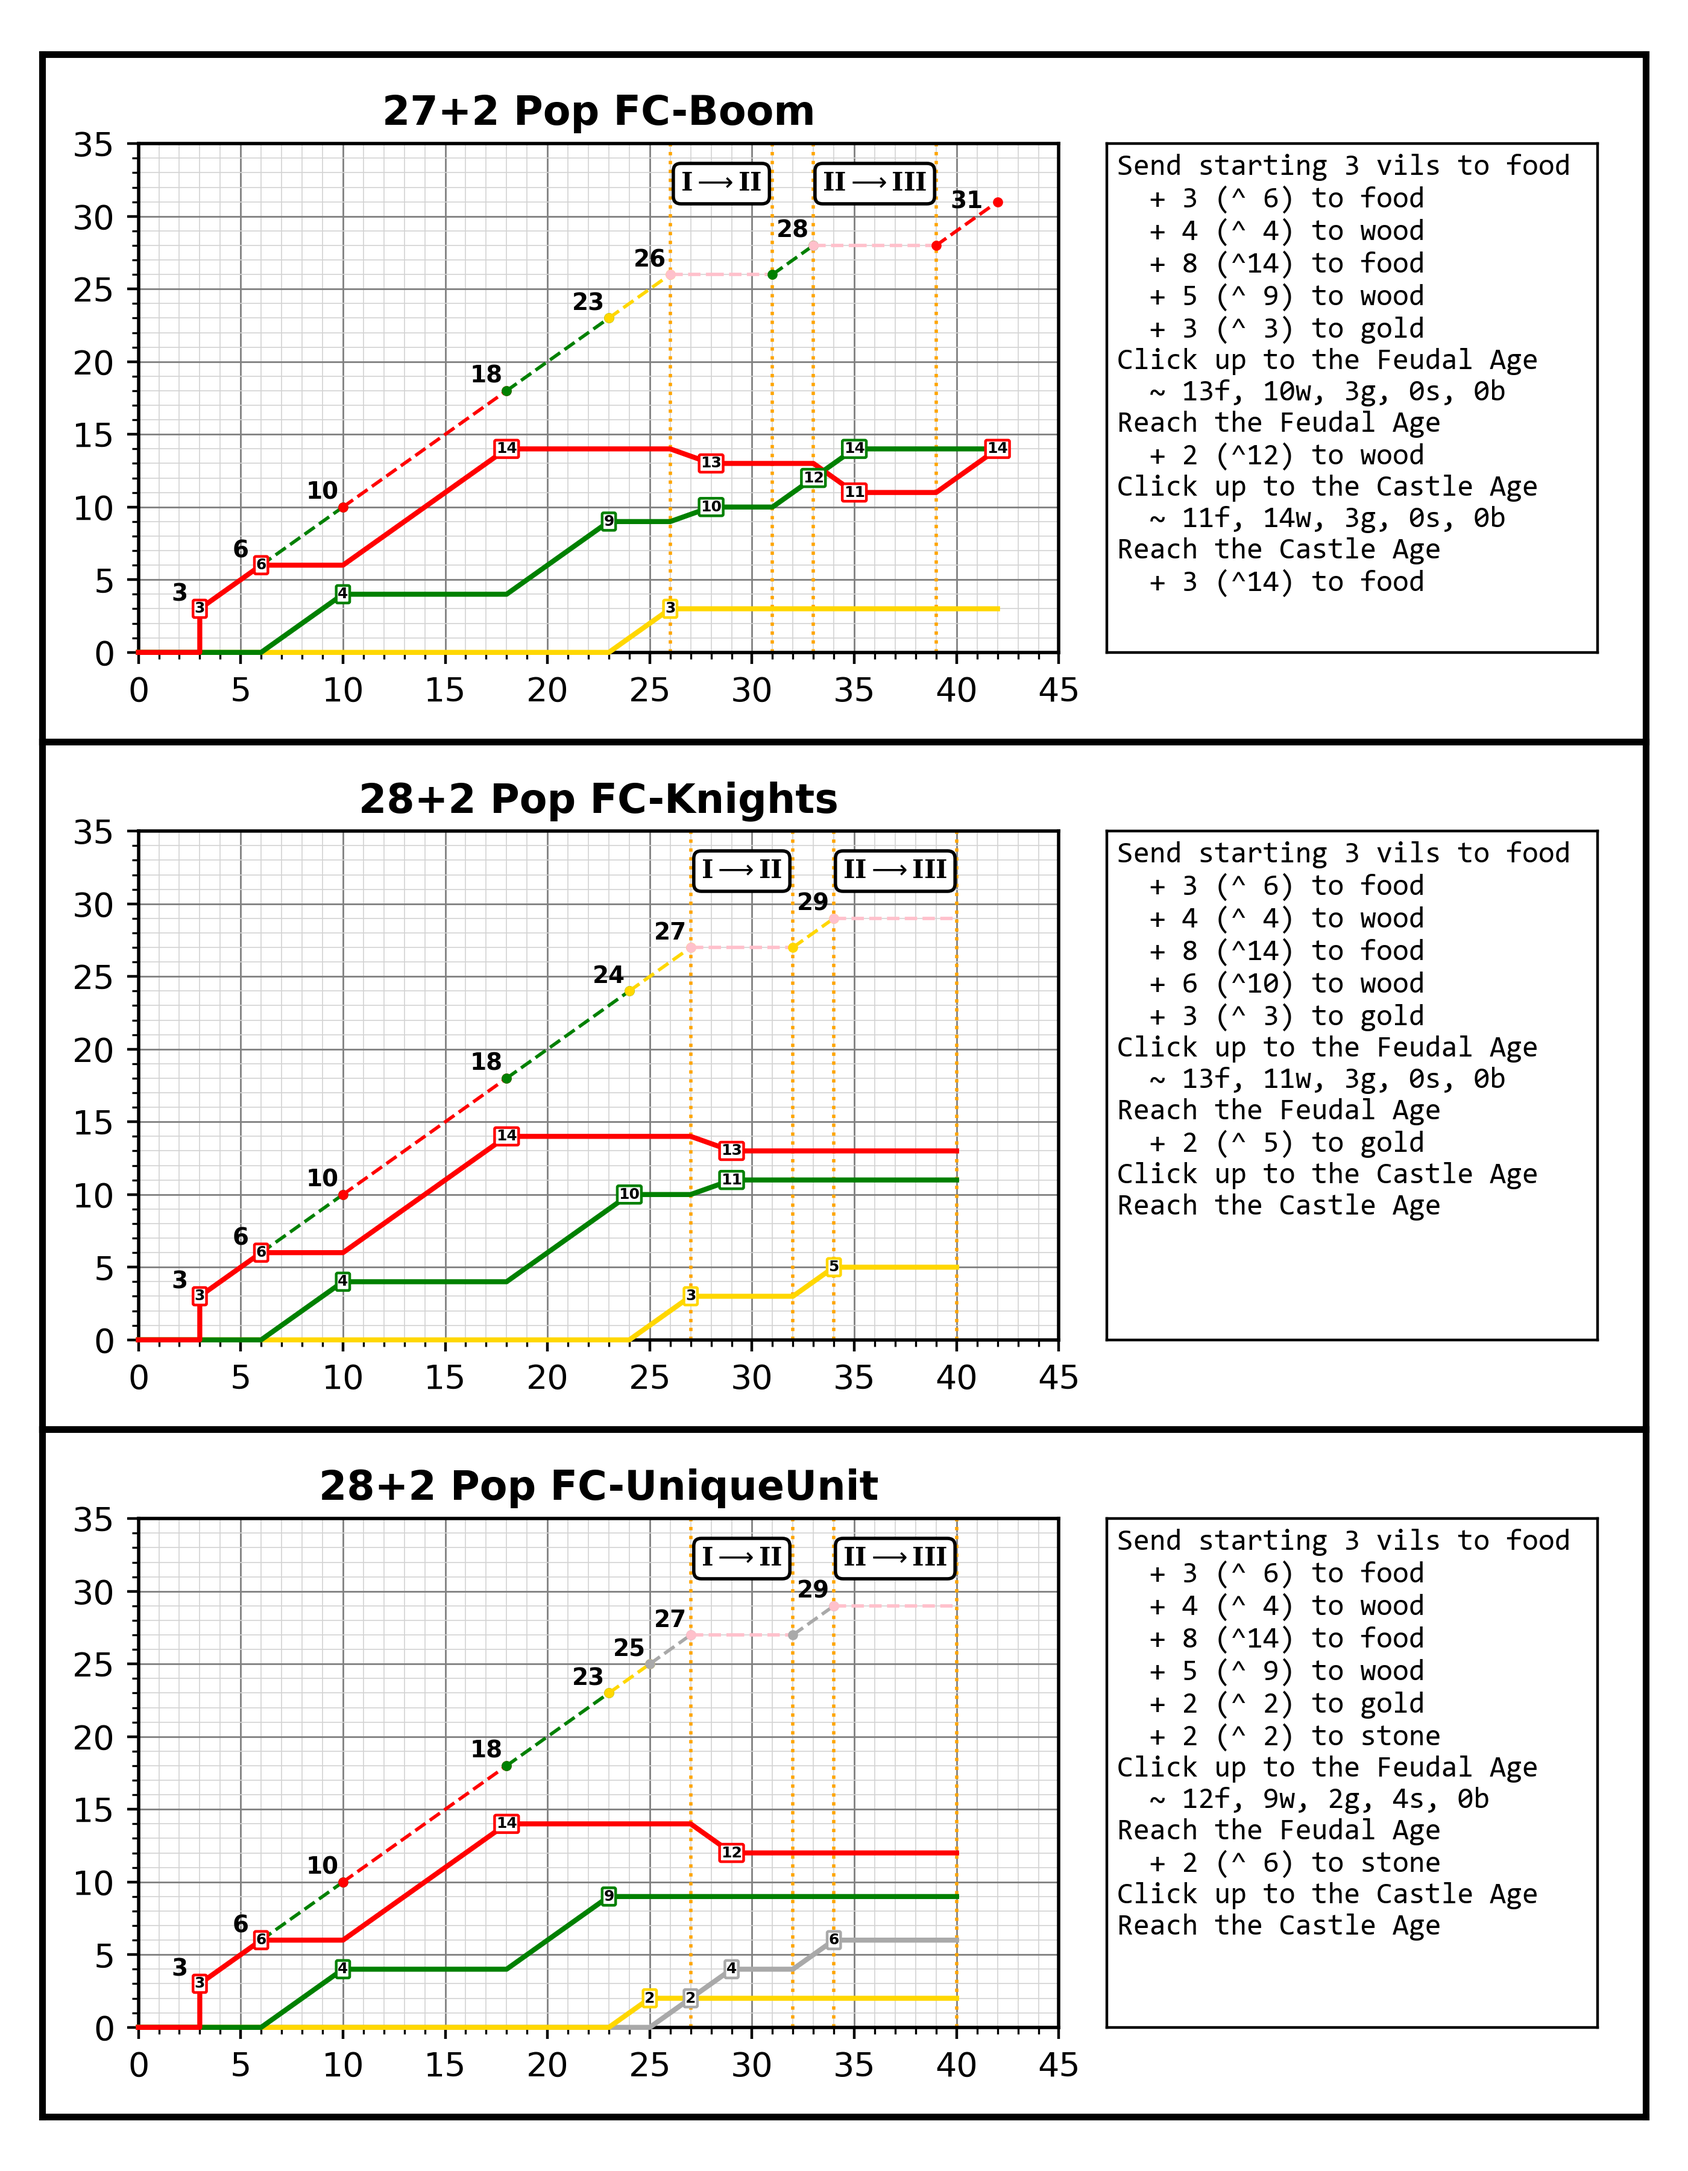
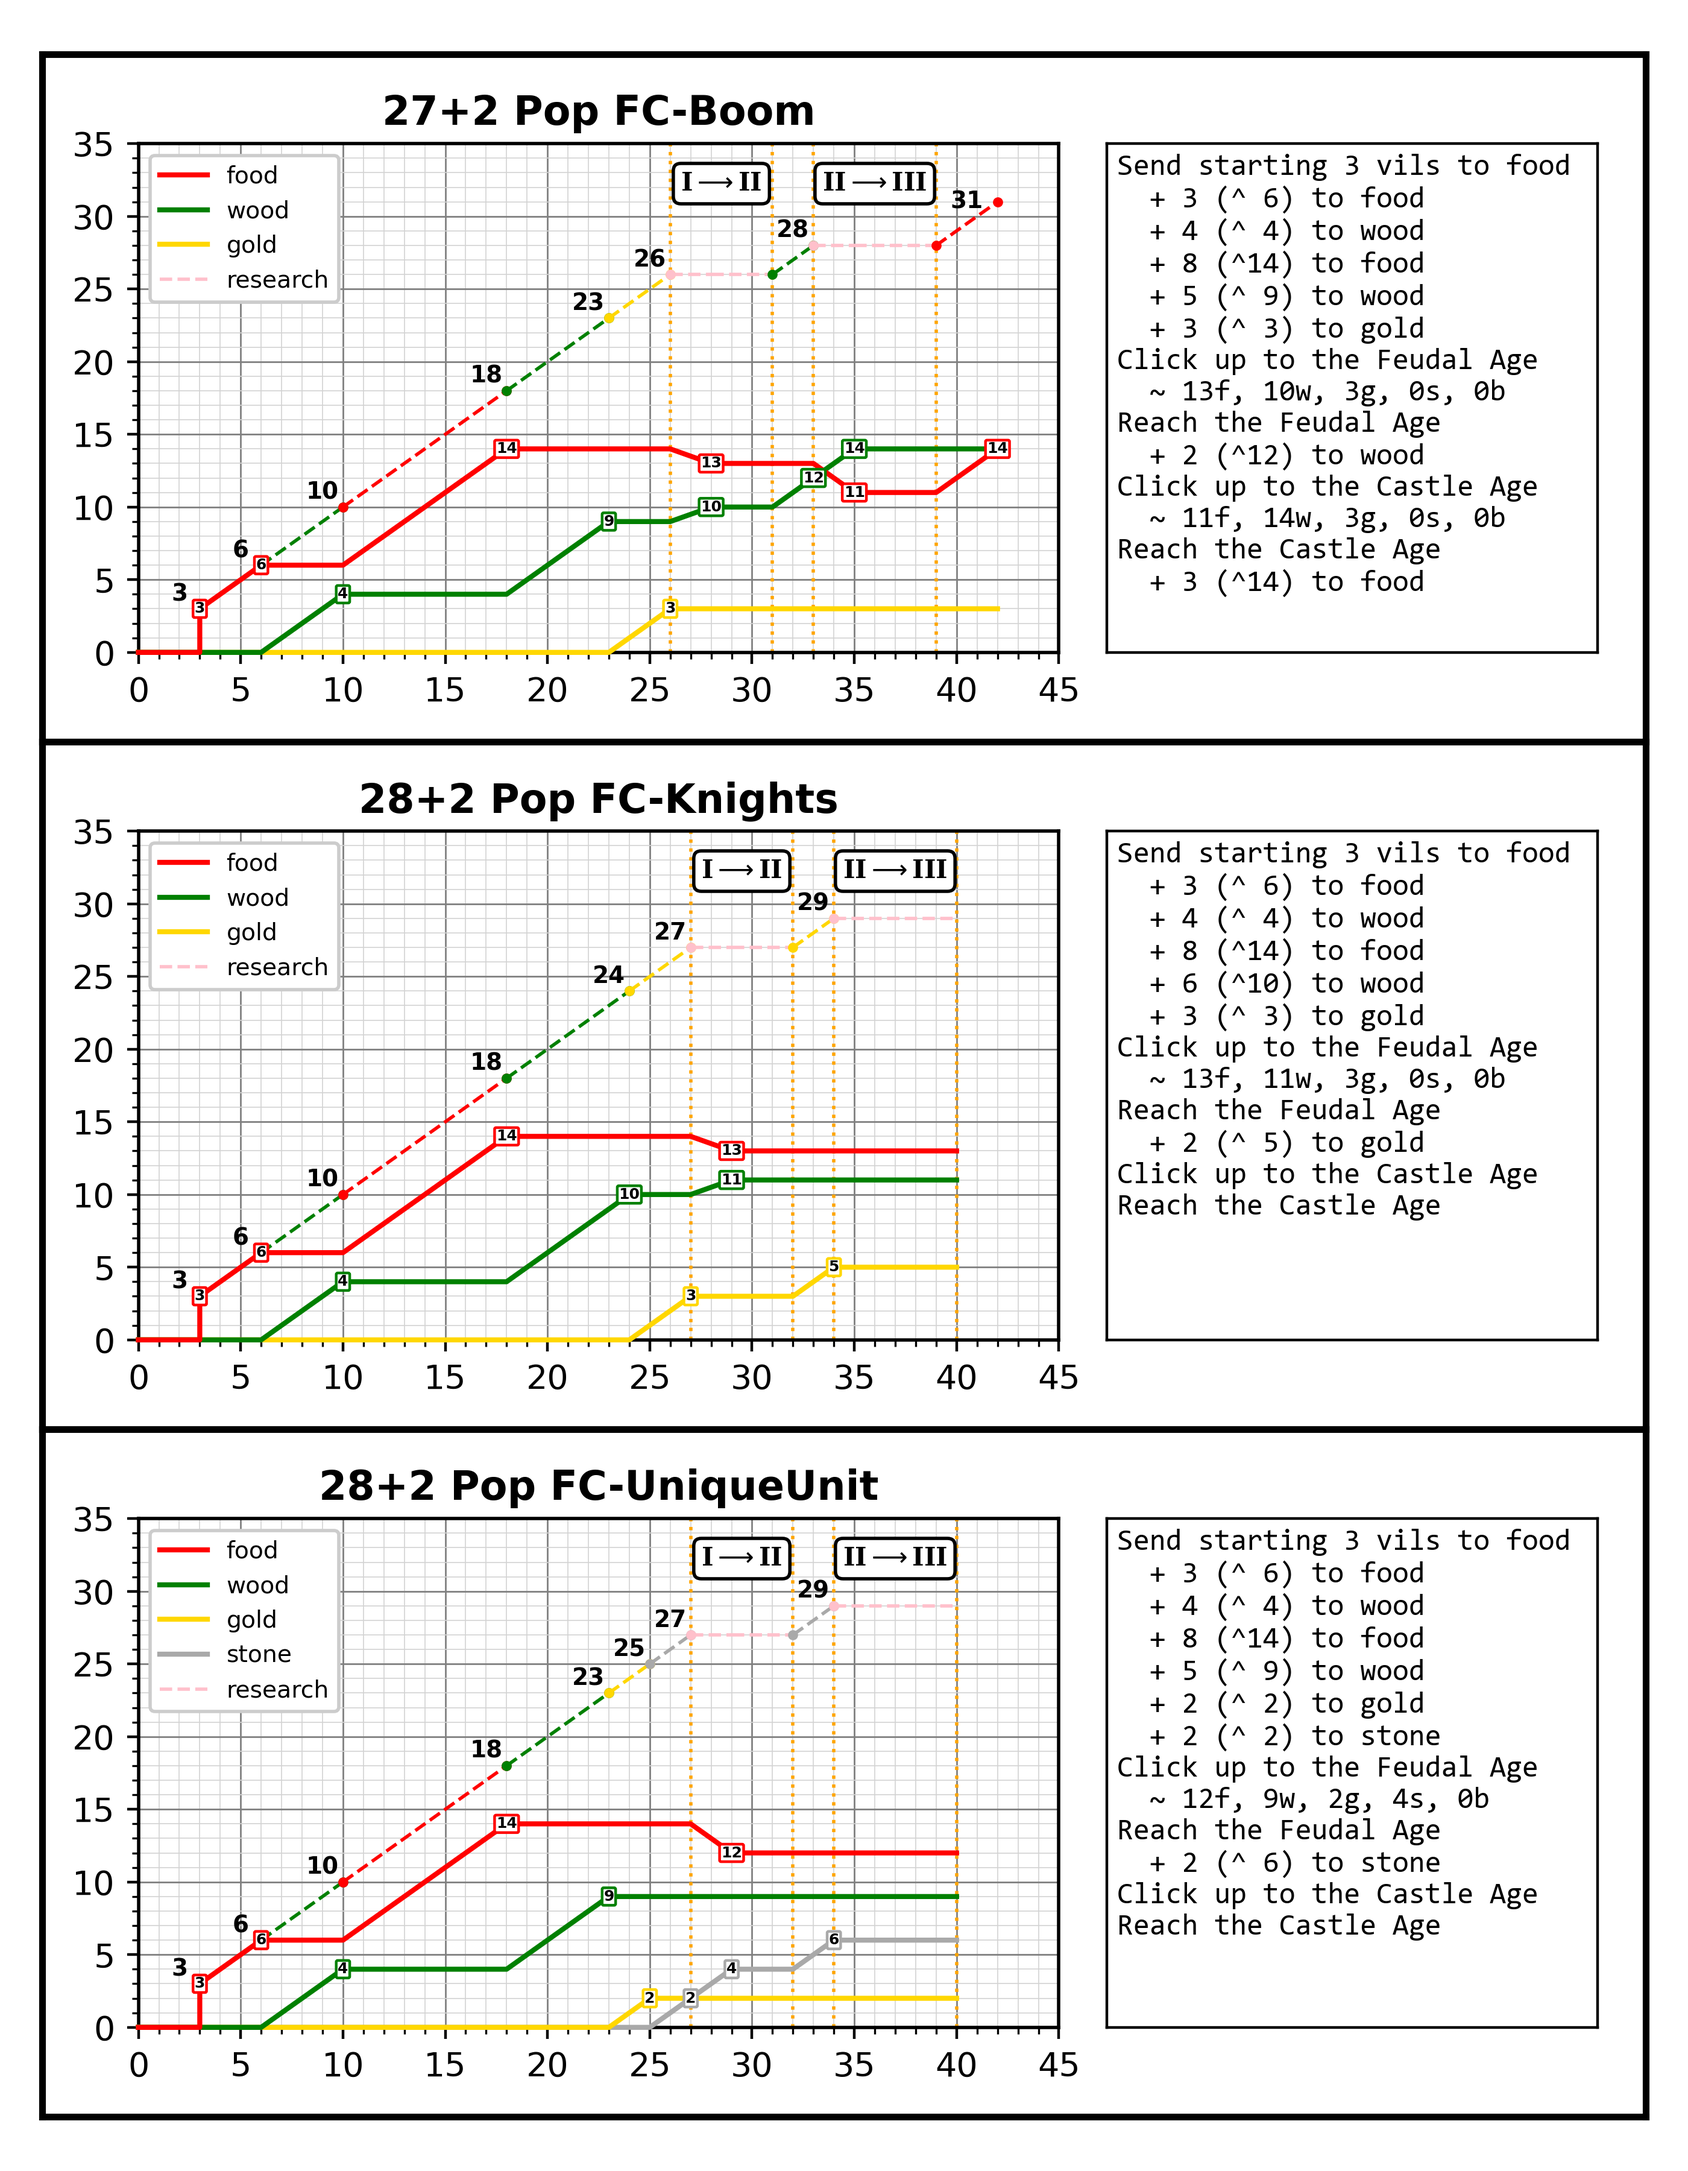
Added legends

Changed region(s): [[0.0932, 0.6844, 0.2175, 0.8089], [0.0932, 0.3733, 0.2175, 0.4667], [0.0932, 0.0622, 0.2175, 0.1556]]

diff --git a/aoe2tools/buildorder.py b/aoe2tools/buildorder.py
@@ -8,7 +8,6 @@ class BuildOrder:
     resource_names  = ['food', 'wood', 'gold',    'stone', 'builder']
     resource_colors = ['red', 'green', 'gold', 'darkgrey',   'brown']
 
-    # Creates build order object with given name
     def __init__(self, name=None, fontsize=None):
         self.name = name
         self.bo_ax = None
@@ -59,6 +58,7 @@ class BuildOrder:
         self.draw_ages(ax, empire)
         self.add_point_labels(ax, empire)
         self.add_totalvils_point_labels(ax, empire)
+        self.add_legend(ax, empire)
 
         ax.set(ylim=[0, 5*np.ceil(ax.get_ylim()[-1]/5.)])
         ax.set(xlim=[0, 5*np.ceil(ax.get_xlim()[-1]/5. -0.1)])
@@ -91,9 +91,10 @@ class BuildOrder:
 
         hist = empire.get_history_table()
         ts = hist[:,0].flatten()
-        ntotals = hist[:,-1].flatten()
+        n_totals = hist[:,-1].flatten()
+        labeled = False
 
-        for i in range(1,len(ntotals)-1):
+        for i in range(1,len(n_totals)-1):
             previous_row = hist[i-1,:]
             current_row = hist[i,:]
             next_row = hist[i+1,:]
@@ -110,7 +111,10 @@ class BuildOrder:
                 if current_row[-1] != previous_row[-1]:
                     ax.plot(ts[i],current_row[-1],marker=m, c=c, zorder=120, **params)
                 m = ''
-            ax.plot(ts[i:i+2], ntotals[i:i+2], marker=m, c=c, zorder=100+i, **params)
+            line, = ax.plot(ts[i:i+2], n_totals[i:i+2], marker=m, c=c, zorder=100+i, **params)
+            if sum(changed) != 1 and current_row[-1] == previous_row[-1] and not labeled:
+                line.set_label('research')
+                labeled = True
 
     def add_point_labels(self, ax=None, empire=None):
         ax = self.plt_ax if ax is None else ax
@@ -172,6 +176,10 @@ class BuildOrder:
             castle_txt = ax.text(t,y,r"II$\longrightarrow$III", **props)
 
         return feudal_txt, castle_txt
+
+    def add_legend(self, ax=None, empire=None):
+        ax = self.plt_ax if ax is None else ax
+        ax.legend(loc='upper left',fontsize=7.1, framealpha=1)
 
     def add_text(self, ax=None, empire=None):
         ax = self.plt_ax if ax is None else ax
